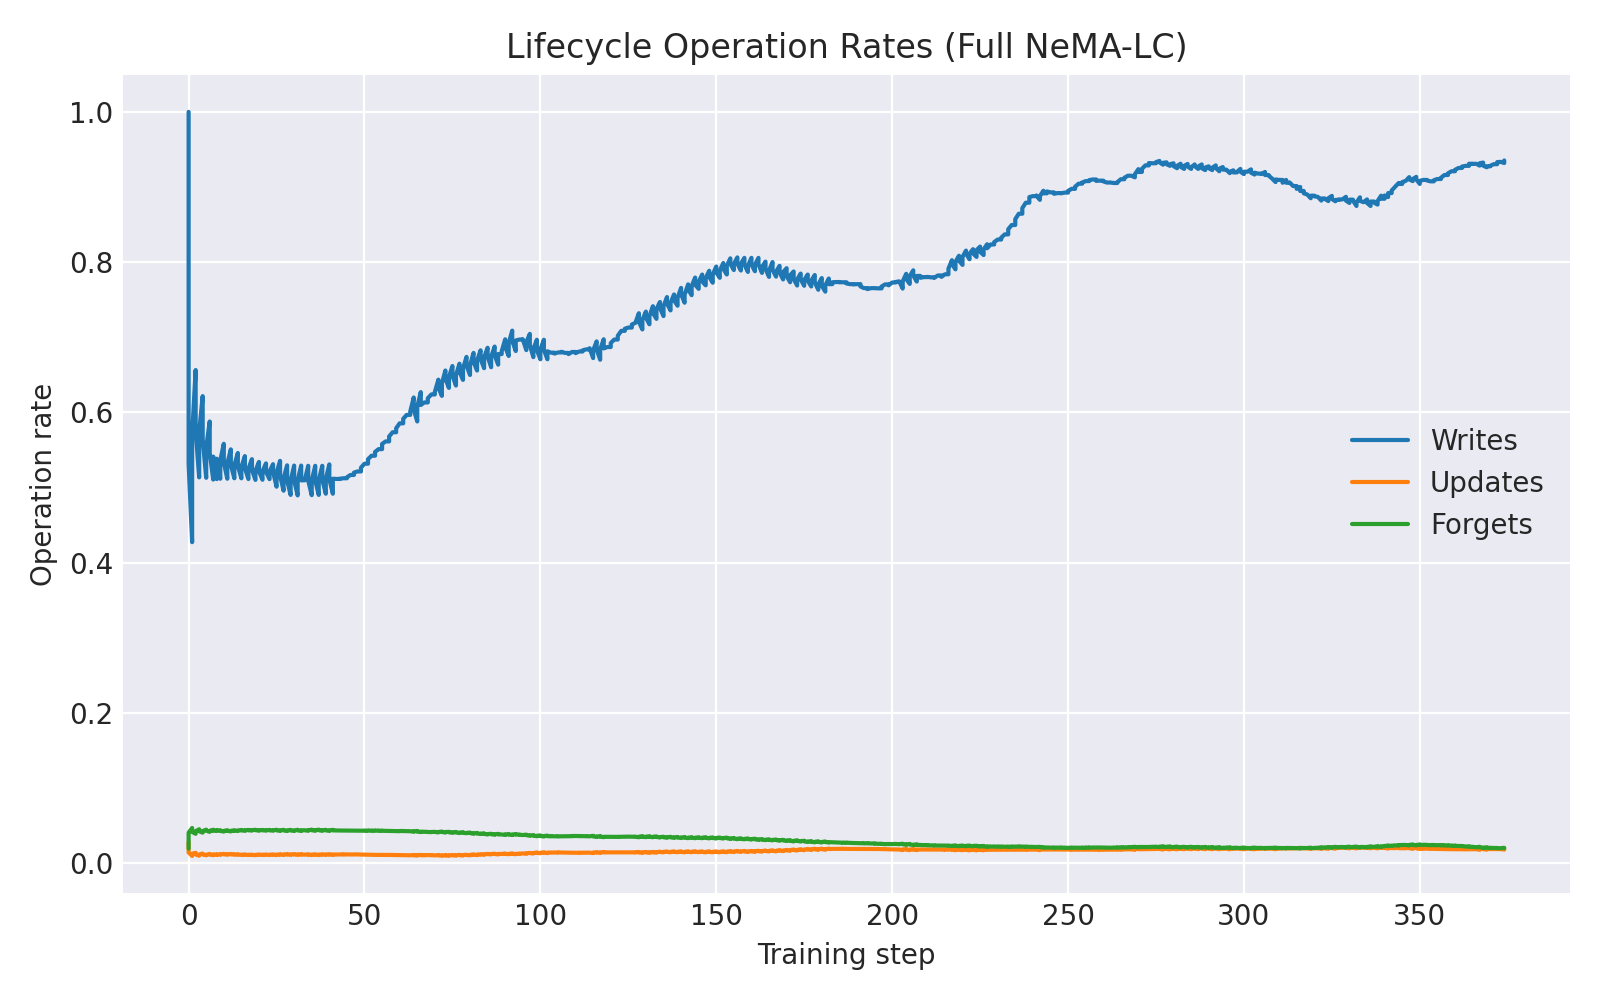
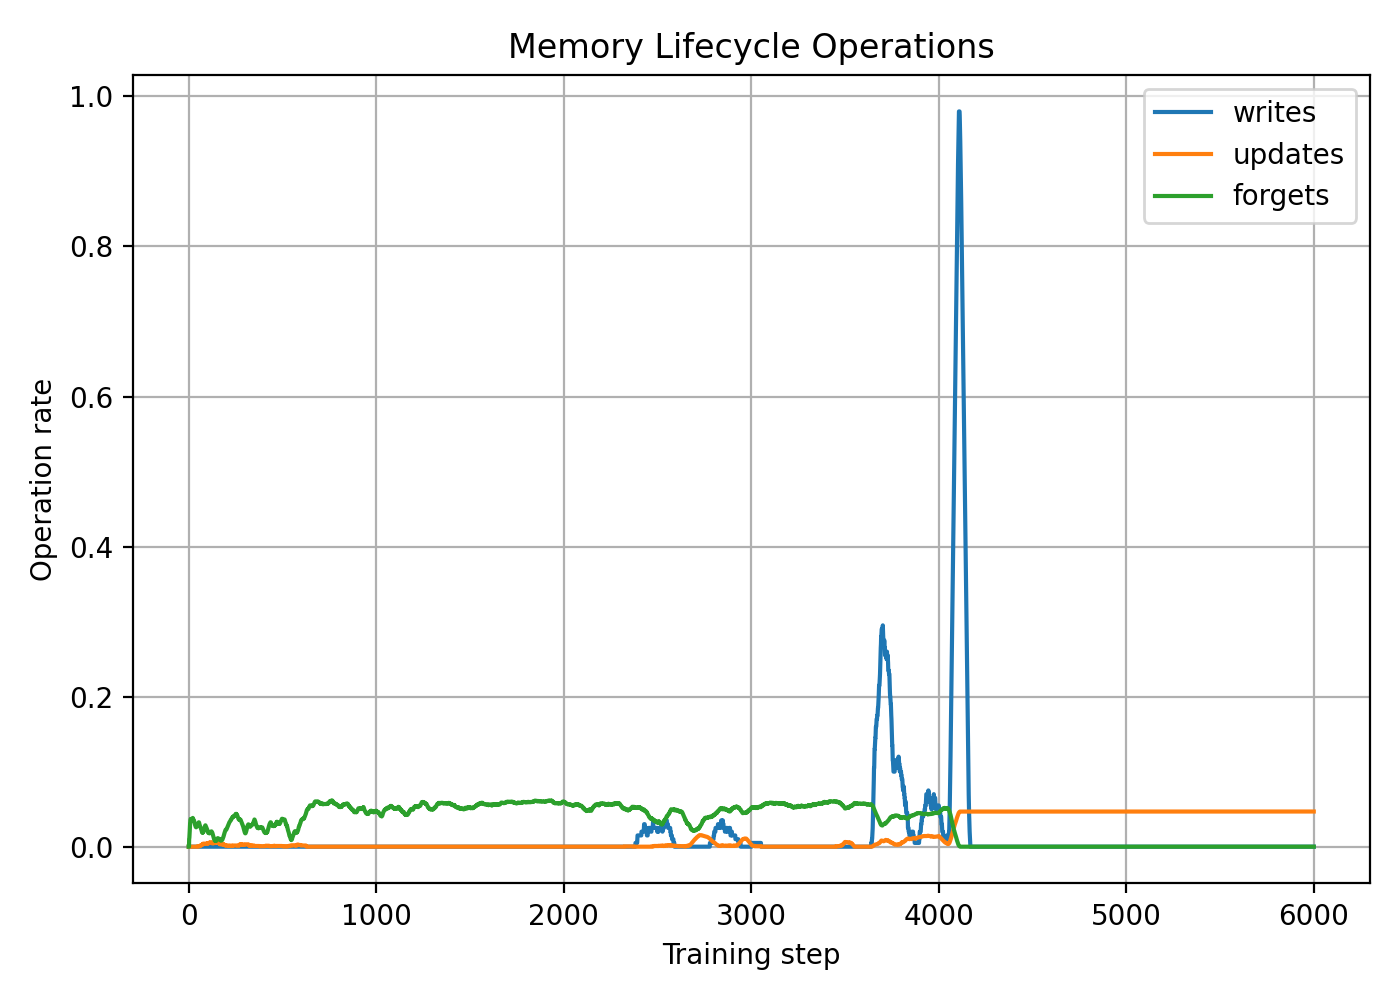
fix: stabilize write behaviour and log retention age correctly

diff --git a/scripts/plot_memory_dynamics.py b/scripts/plot_memory_dynamics.py
@@ -2,7 +2,8 @@ import pandas as pd
 import matplotlib.pyplot as plt
 from pathlib import Path
 
-CSV_PATH = Path("logs/memory_dynamics_lra.csv")
+CSV_PATH = Path("logs/memory_dynamics_full.csv")
+
 OUT = Path("plots")
 OUT.mkdir(exist_ok=True)
 
